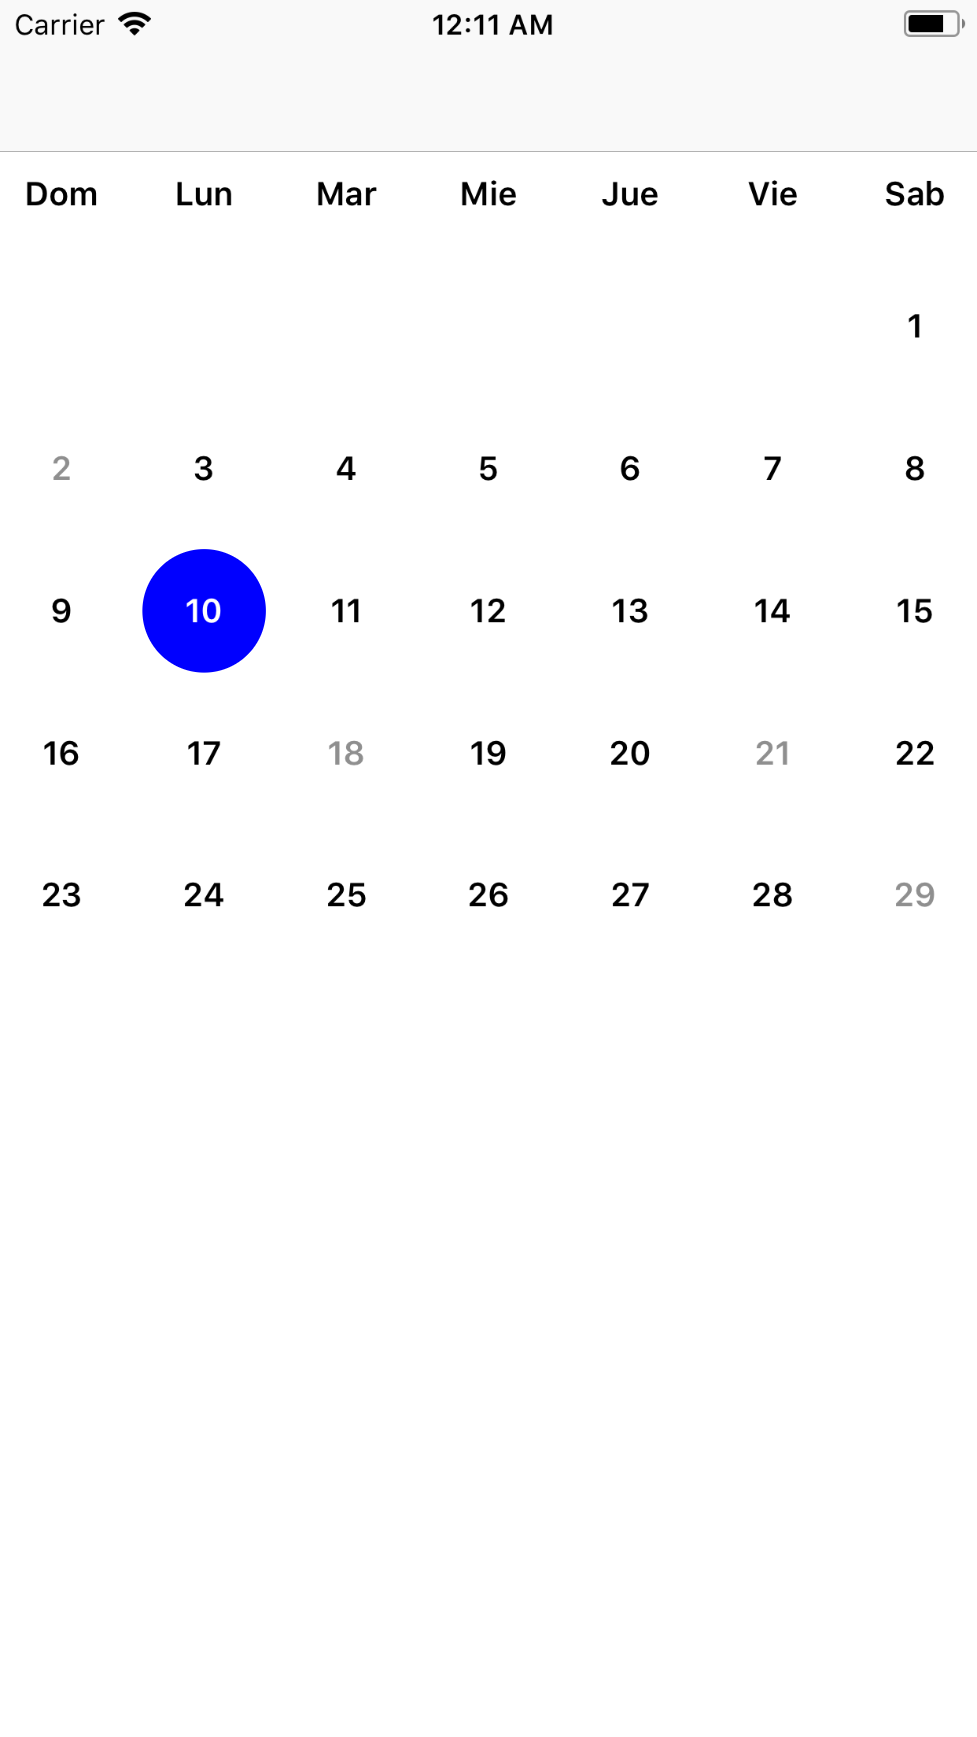
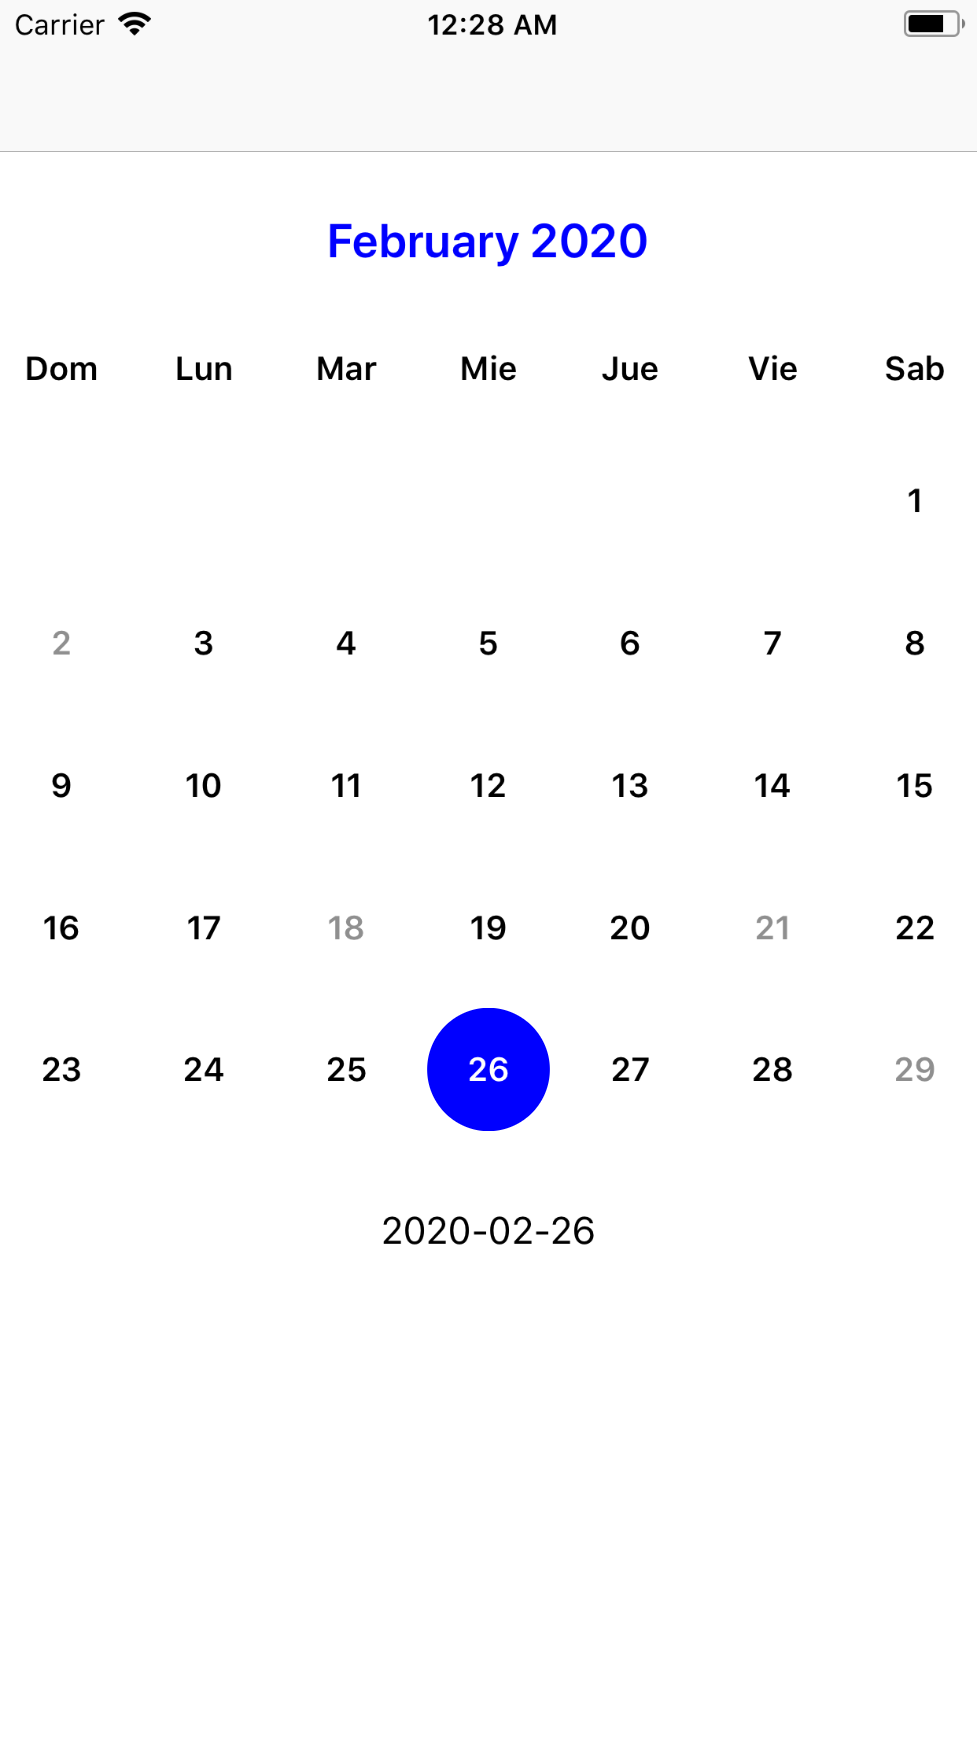
Add data

diff --git a/Calendar/ViewController.swift b/Calendar/ViewController.swift
@@ -10,36 +10,80 @@ import UIKit
 
 class ViewController: UIViewController {
 
+    fileprivate var selectedDateLabel: UILabel!
+    
     override func viewDidLoad() {
         super.viewDidLoad()
         
         self.view.backgroundColor = UIColor.white
         
         let holidays = ["2020-02-02", "2020-02-18", "2020-02-21", "2020-02-29"]
+        let month = 2
+        let year = 2020
         
+        let calendarTitleLabel = UILabel()
         let weekdaysStackView = WeekdaysStackView()
-        let calendarView = CalendarView(month: 2, year: 2020, holidays: holidays)
-        [weekdaysStackView, calendarView].forEach({
+        let calendarView = CalendarView(month: month, year: year, holidays: holidays)
+        let selectedDateLabel = UILabel()
+        [calendarTitleLabel, weekdaysStackView, calendarView, selectedDateLabel].forEach({
             $0.translatesAutoresizingMaskIntoConstraints = false
             self.view.addSubview($0)
         })
         
         NSLayoutConstraint.activate([
+            calendarTitleLabel.topAnchor.constraint(equalTo: self.view.topAnchor, constant: 80),
+            calendarTitleLabel.heightAnchor.constraint(equalToConstant: 44),
+            calendarTitleLabel.leadingAnchor.constraint(equalTo: self.view.leadingAnchor),
+            calendarTitleLabel.trailingAnchor.constraint(equalTo: self.view.trailingAnchor),
+            
             weekdaysStackView.heightAnchor.constraint(equalToConstant: 44),
             weekdaysStackView.leadingAnchor.constraint(equalTo: self.view.leadingAnchor),
             weekdaysStackView.trailingAnchor.constraint(equalTo: self.view.trailingAnchor),
-            weekdaysStackView.topAnchor.constraint(equalTo: self.view.topAnchor, constant: 60),
+            weekdaysStackView.topAnchor.constraint(equalTo: calendarTitleLabel.bottomAnchor, constant: 10),
             
             calendarView.leadingAnchor.constraint(equalTo: self.view.leadingAnchor),
             calendarView.trailingAnchor.constraint(equalTo: self.view.trailingAnchor),
             calendarView.topAnchor.constraint(equalTo: weekdaysStackView.bottomAnchor, constant: 8),
+            
+            selectedDateLabel.topAnchor.constraint(equalTo: calendarView.bottomAnchor, constant: 20),
+            selectedDateLabel.heightAnchor.constraint(equalToConstant: 44),
+            selectedDateLabel.leadingAnchor.constraint(equalTo: self.view.leadingAnchor),
+            selectedDateLabel.trailingAnchor.constraint(equalTo: self.view.trailingAnchor),
             ])
+        
+        let calendar = Calendar.init(identifier: Calendar.Identifier.gregorian)
+        var components = DateComponents()
+        components.day = 1
+        components.month = month
+        components.year = year
+        if let date = calendar.date(from: components) {
+            let dateFormatter = DateFormatter()
+            dateFormatter.dateFormat = "MMMM yyyy"
+            calendarTitleLabel.text = dateFormatter.string(from: date)
+        }
+        calendarTitleLabel.textColor = UIColor.blue
+        calendarTitleLabel.textAlignment = .center
+        calendarTitleLabel.font = UIFont.boldSystemFont(ofSize: 20)
         
         weekdaysStackView.backgroundColor = UIColor.white
         weekdaysStackView.itemTextColor = UIColor.black
         
+        calendarView.delegate = self
         calendarView.layoutView()
+        
+        selectedDateLabel.textColor = UIColor.black
+        selectedDateLabel.textAlignment = .center
+        selectedDateLabel.font = UIFont.systemFont(ofSize: 16)
+        self.selectedDateLabel = selectedDateLabel
     }
 
+}
+
+extension ViewController: CalendarProtocol {
+    func onSelectedDate(_ date: Date) {
+        let dateFormatter = DateFormatter()
+        dateFormatter.dateFormat = "yyyy-MM-dd"
+        selectedDateLabel.text = dateFormatter.string(from: date)
+    }
 }
 
